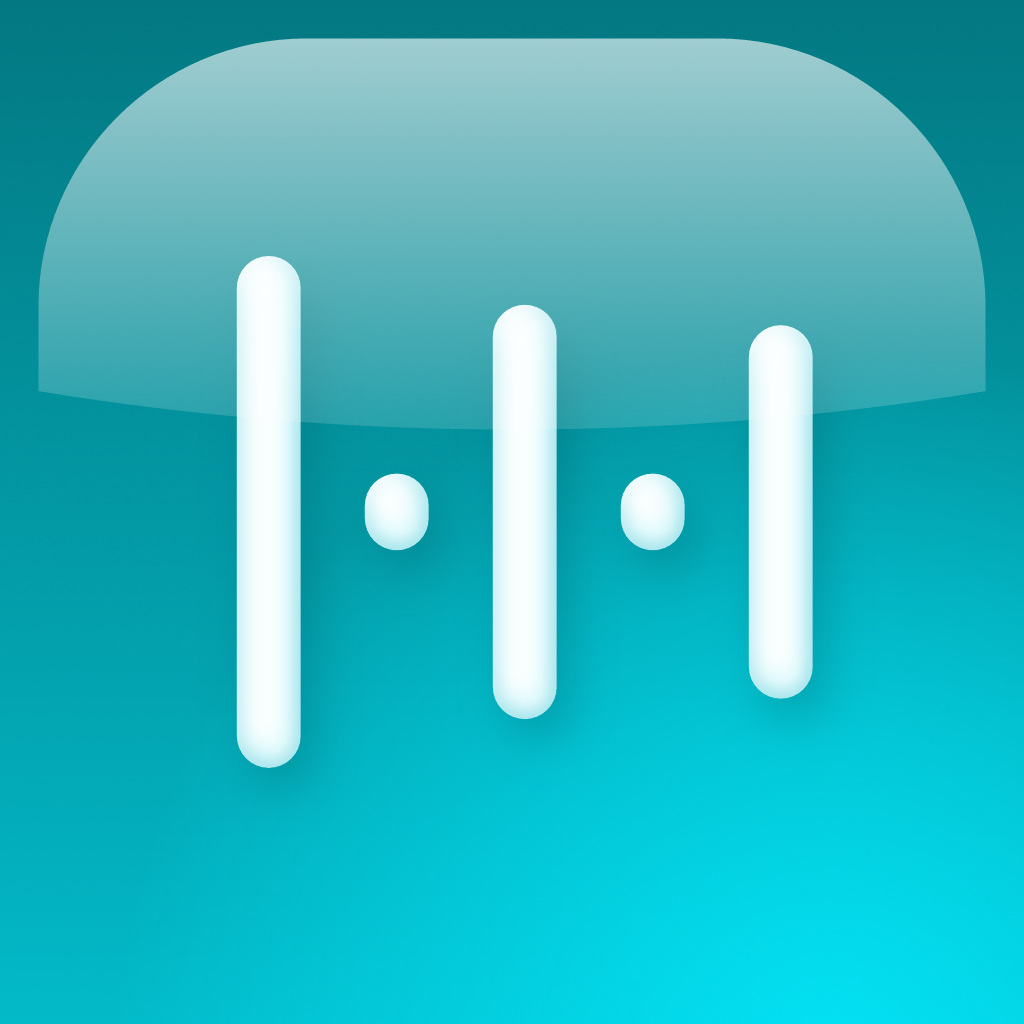
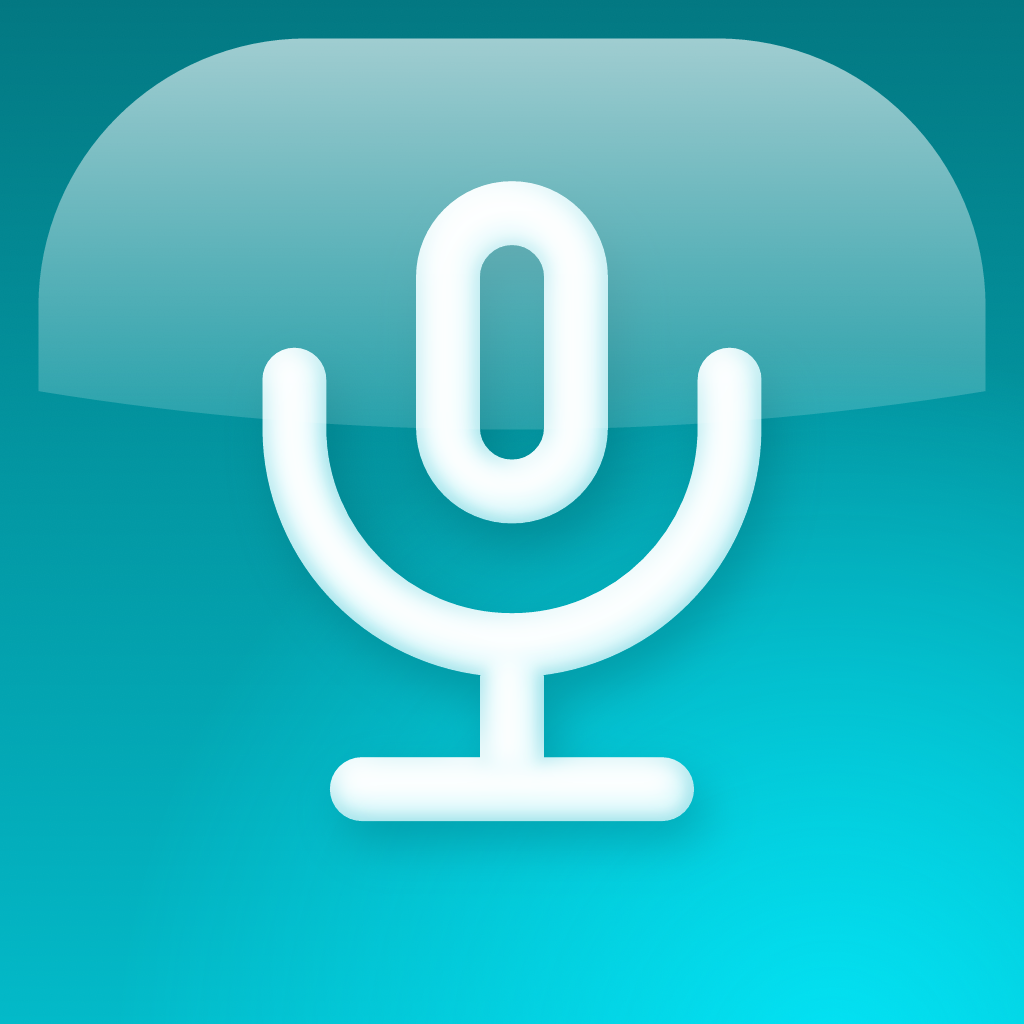
0.1.0: the dictation-key microphone in every catalogue form; engine check by --help; Codex manifest as the other skills

Changed region(s): [[0.2188, 0.1562, 0.8125, 0.8125]]

diff --git a/skills/offline-stt/SKILL.md b/skills/offline-stt/SKILL.md
@@ -42,14 +42,20 @@ order:
 github.com/geragarazagh/stt) running Whisper, Parakeet, and Qwen locally via
 `transcribe.cpp` with Silero VAD and iCloud-synced dictionary.
 
-Find it in this order, using the first that exits 0:
+Find it in this order, using the first that exits 0 (`--help`, not `--version`:
+STT 0.5-0.10 know only `--help`, and before 0.9 an unknown flag opens a second
+copy of the app):
 
 ```sh
-stt-cli --version
-/Applications/STT.app/Contents/MacOS/STT --version
+stt-cli --help
+/Applications/STT.app/Contents/MacOS/STT --help
 ```
 
-Below, `STT` stands for the full path that worked.
+Below, `STT` stands for the full path that worked. If its help does not list
+`--status`, this STT is older than 0.11: transcription, `--add-word` and
+`--add-pair` work, the other commands below do not. Tell the person once that
+STT's menu has Check for Updates (or `brew upgrade --cask stt` when installed
+with Homebrew), and use what works meanwhile.
 
 - **Check status** (active model, downloaded models, language, dictionary and
   history counts, running state):
@@ -158,9 +164,9 @@ anything or downloading a model:
 
 ## Known mistakes
 
-- Do not pass unknown `--flags` directly to older `STT` builds (< 0.9): they
-  launch a second GUI copy that steals the running app's socket. Use `stt-cli`
-  or `--version` / `--help`.
+- Do not pass a flag the found STT's `--help` does not list: before 0.9 an
+  unknown flag launches a second copy of the app that takes the running one's
+  socket.
 - `--add-word`, `--add-pair`, `--remove-word`, and `--remove-pair` require the
   STT app to be running so changes sync via iCloud and reload live. If `STT is
   not running.` appears, launch `open -g -a STT --args --background`, wait 1

diff --git a/README.md b/README.md
@@ -1,4 +1,4 @@
-<picture><source media="(prefers-color-scheme: dark)" srcset="assets/icon-github-dark.png"><img src="assets/icon-github.png" width="128" alt="offline-stt icon: the sound wave of STT"></picture>
+<picture><source media="(prefers-color-scheme: dark)" srcset="assets/icon-github-dark.png"><img src="assets/icon-github.png" width="128" alt="offline-stt icon: the microphone of the dictation key"></picture>
 
 # Offline STT
 
